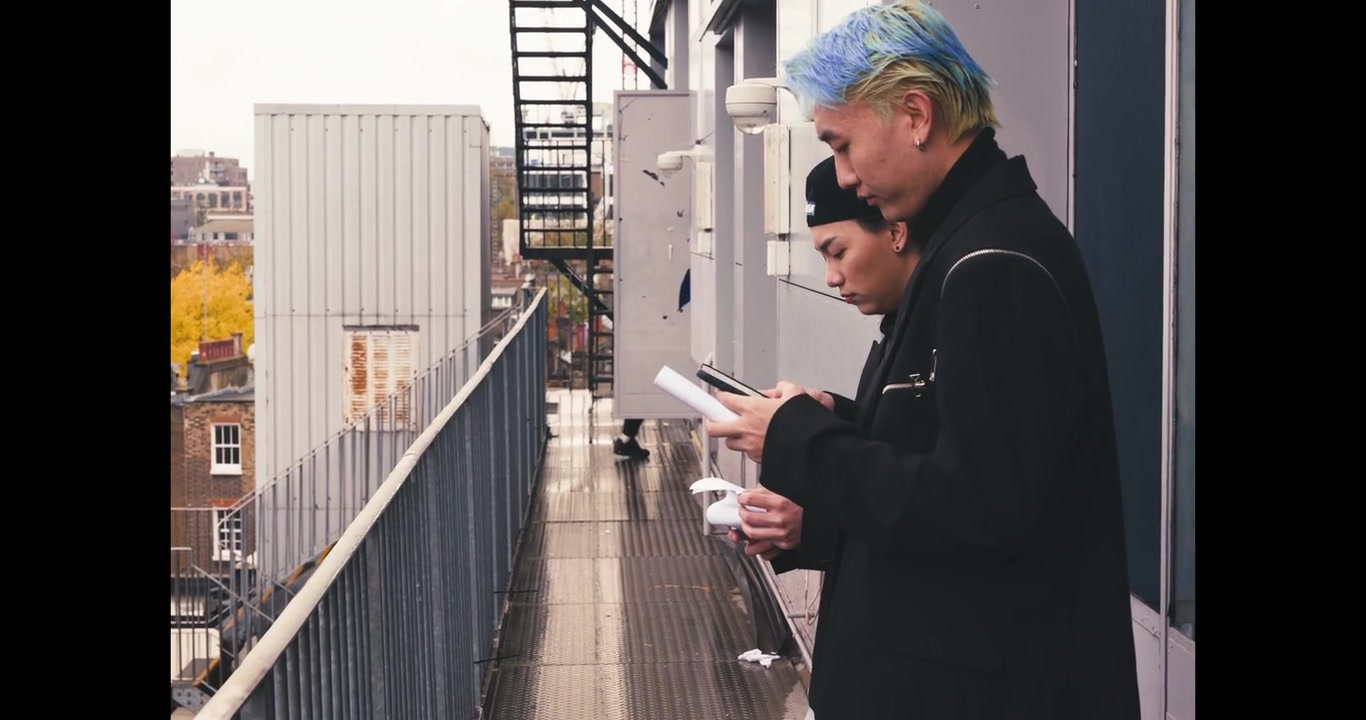
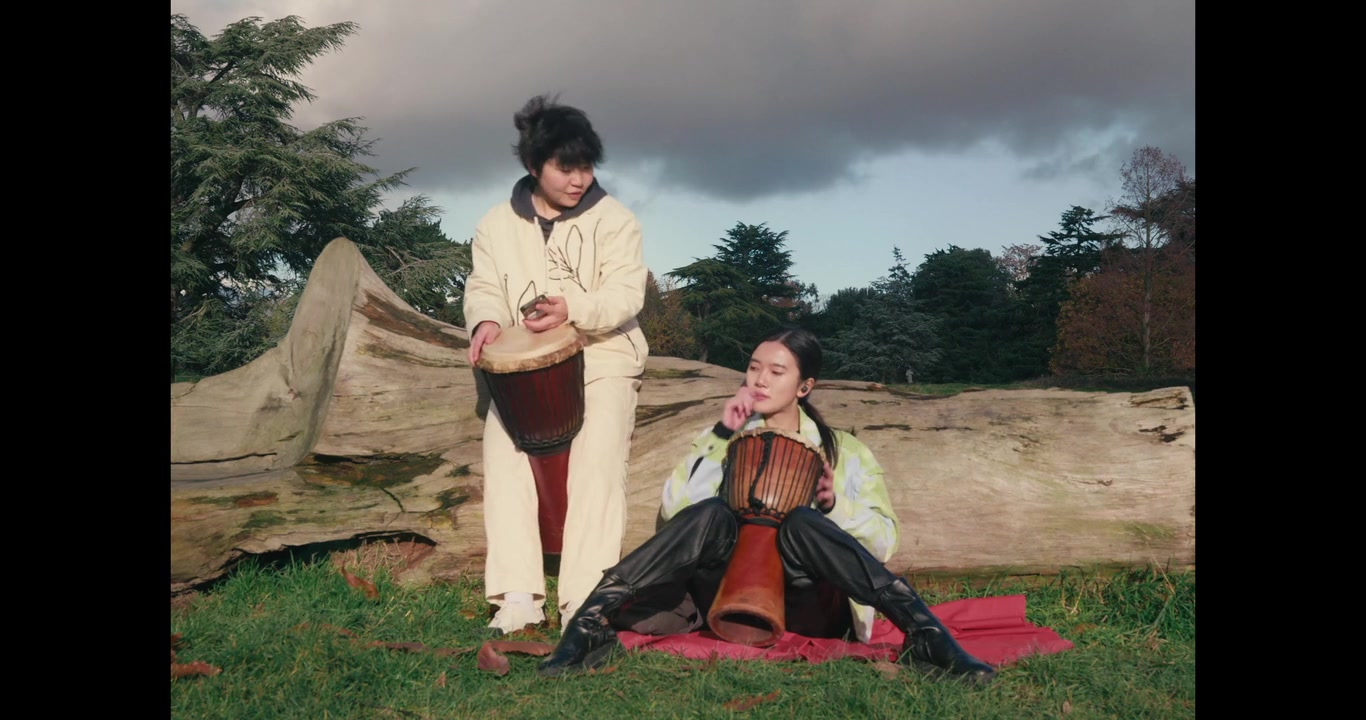
Restore automatic previews, retry transient failures and fit fashion content into first row

diff --git a/script.js b/script.js
@@ -78,7 +78,8 @@ function initPortfolio() {
   function projectCard(project, index) {
     const isPhoto = project.kind === 'photo';
     const article = element('article', 'project');
-    article.classList.toggle('portrait-project', !isPhoto && Number(project.aspectRatio) > 0 && Number(project.aspectRatio) < 1);
+    article.classList.toggle('portrait-project', !isPhoto && Number(project.aspectRatio) > 0 && (Number(project.aspectRatio) < 1 || project.fashionPriority));
+    article.classList.toggle('fashion-project', Boolean(project.fashionPriority));
     const button = element('a', 'project-button');
     button.href = project.url;
     button.setAttribute('aria-label', `View ${project.title}${project.sample ? (isPhoto ? ' (sample photograph)' : ' (sample film)') : ''}`);
@@ -117,16 +118,21 @@ function initPortfolio() {
     caption.append(title);
     button.append(visual, caption);
     article.append(button);
-    if (!isPhoto && project.vimeo && !project.staticCover && site.platformPreviews) previews.add(visual, project);
+    if (!isPhoto && project.vimeo && site.platformPreviews) previews.add(visual, project);
     return article;
   }
 
   const groups = categories.map(category => projects.filter(project => project.listed !== false && (project.collection || 'films') === category.id)
-    .sort((a, b) => Number(a.pinLast === true) - Number(b.pinLast === true) || (a.pinLast === true && b.pinLast === true ? Number(a.pinLastOrder || 0) - Number(b.pinLastOrder || 0) : Number(b.fashionPriority === true) - Number(a.fashionPriority === true) || Number(Number(a.aspectRatio) < 1) - Number(Number(b.aspectRatio) < 1))));
+    .sort((a, b) => Number(a.pinLast === true) - Number(b.pinLast === true) || (a.pinLast === true && b.pinLast === true ? Number(a.pinLastOrder || 0) - Number(b.pinLastOrder || 0) : Number(b.fashionPriority === true) - Number(a.fashionPriority === true) || Number(a.contentOrder || 99) - Number(b.contentOrder || 99) || Number(Number(a.aspectRatio) < 1) - Number(Number(b.aspectRatio) < 1))));
   panels.forEach((panel, index) => {
     const items = groups[index];
     if (items.length) {
       const grid = element('div', categories[index].id === 'photography' ? 'portfolio-grid' : 'portfolio-grid mixed-format-grid');
+      const fashion = items.filter(project => project.fashionPriority);
+      if (fashion.length) {
+        grid.style.setProperty('--fashion-ratio-sum', fashion.reduce((sum, project) => sum + Number(project.aspectRatio), 0));
+        grid.style.setProperty('--fashion-gaps', `${(fashion.length - 1) * 24 + 2}px`);
+      }
       items.forEach((project, projectIndex) => grid.append(projectCard(project, projectIndex)));
       panel.append(grid);
       if (items.some(project => project.sample)) {
@@ -342,12 +348,20 @@ function createPreviews() {
     entry.visual.dataset.previewState = 'unavailable';
     entry.player?.destroy().catch(() => {});
     entry.player = null;
+    clearTimeout(entry.retryTimer);
+    if (entry.retries < 2) entry.retryTimer = setTimeout(() => {
+      entry.retries += 1;
+      entry.failed = false;
+      updateVimeo(entry);
+    }, 1800 * (entry.retries + 1));
   }
 
   async function updateVimeo(entry) {
     const active = shouldPlay(entry);
     if (entry.ready) {
       const player = entry.player;
+      if (entry.updating) return;
+      entry.updating = true;
       try {
         if (active) {
           await player.play();
@@ -358,6 +372,10 @@ function createPreviews() {
           await player.pause();
         }
       } catch { if (shouldPlay(entry)) failVimeoPreview(entry); }
+      finally {
+        entry.updating = false;
+        if (entry.ready && active !== shouldPlay(entry)) updateVimeo(entry);
+      }
       return;
     }
     if (!active || entry.loading || entry.failed) return;
@@ -374,24 +392,25 @@ function createPreviews() {
       iframe.allow = 'autoplay; encrypted-media';
       iframe.referrerPolicy = 'strict-origin-when-cross-origin';
       // 免费账户可能忽略 controls / vimeo_logo；保留原始画面，不遮挡标识。
-      const params = new URLSearchParams({ autoplay: '0', muted: '1', loop: '1', autopause: '0', controls: '0', keyboard: '0', playsinline: '1', title: '0', byline: '0', portrait: '0', badge: '0', vimeo_logo: '0', dnt: '1' });
+      const params = new URLSearchParams({ autoplay: '1', muted: '1', loop: '1', autopause: '0', controls: '0', keyboard: '0', playsinline: '1', title: '0', byline: '0', portrait: '0', badge: '0', vimeo_logo: '0', dnt: '1' });
       if (entry.project.vimeoHash) params.set('h', entry.project.vimeoHash);
       iframe.src = `https://player.vimeo.com/video/${entry.project.vimeo}?${params}`;
       entry.visual.append(iframe);
       const player = new Vimeo.Player(iframe);
       entry.player = player;
       player.on('playing', () => {
+        if (entry.player !== player) return;
         if (!shouldPlay(entry)) { updateVimeo(entry); return; }
         entry.visual.dataset.previewState = 'playing';
         entry.visual.classList.add('preview-ready');
       });
-      player.on('pause', () => hideVimeoPreview(entry));
-      player.on('error', () => failVimeoPreview(entry));
+      player.on('pause', () => { if (entry.player === player) hideVimeoPreview(entry); });
+      player.on('error', () => { if (entry.player === player) failVimeoPreview(entry); });
       await player.ready();
       await player.setMuted(true);
-      entry.visual.dataset.previewMuted = String(await player.getMuted());
+      entry.visual.dataset.previewMuted = 'true';
       const start = Math.max(0, Number(entry.project.previewStart) || 0);
-      if (start) await player.setCurrentTime(start);
+      if (start) await player.setCurrentTime(start).catch(() => {});
       let seeking = false;
       player.on('timeupdate', ({ seconds }) => {
         if (seconds < start + (Number(entry.project.previewDuration) || 24) || seeking || !shouldPlay(entry)) return;
@@ -434,7 +453,7 @@ function createPreviews() {
   toggle.addEventListener('click', () => {
     enabled = !enabled;
     // 手动重新开启时允许因浏览器自动播放限制失败的预览重试。
-    if (enabled) entries.forEach(entry => { if (entry.failed) { entry.failed = false; entry.loading = false; entry.ready = false; } });
+    if (enabled) entries.forEach(entry => { if (entry.failed) { clearTimeout(entry.retryTimer); entry.retries = 0; entry.failed = false; entry.loading = false; entry.ready = false; } });
     updateToggle();
     refresh();
   });
@@ -445,10 +464,11 @@ function createPreviews() {
   return {
     refresh,
     add(visual, project) {
-      const entry = { visual, project, visible: false, loading: false, ready: false, failed: false, player: null };
+      const entry = { visual, project, visible: false, loading: false, ready: false, failed: false, retries: 0, retryTimer: null, updating: false, player: null };
       entries.set(visual, entry);
       visual.dataset.previewState = 'idle';
-      observer?.observe(visual);
+      if (observer) observer.observe(visual);
+      else { entry.visible = true; updateVimeo(entry); }
     },
   };
 }

diff --git a/projects.js b/projects.js
@@ -256,6 +256,60 @@ const projects = [
     ]
   },
   {
+    "collection": "social",
+    "kind": "video",
+    "title": "Starry Mart — London Dock Opening",
+    "vimeo": "1232915723",
+    "vimeoHash": "e516679215",
+    "aspectRatio": 1.7777777777777777,
+    "previewStart": 8,
+    "cover": "https://i.vimeocdn.com/video/2208446214-75d6c8c3fb513e9c3f9c4aabef6c6001547ee331c2f3270e46e7d959eacdbca9-d_1280?region=us",
+    "credit": "",
+    "sample": false,
+    "slug": "starry-mart-london-dock-opening",
+    "description": "An opening-event film for Starry Mart at London Dock.",
+    "images": [],
+    "url": "/social-starry-mart-london-dock-opening.html",
+    "location": "London, UK",
+    "contentOrder": 1
+  },
+  {
+    "collection": "social",
+    "kind": "video",
+    "title": "Knight Frank — The OWO Residences",
+    "vimeo": "1232901833",
+    "vimeoHash": "51f3668da2",
+    "aspectRatio": 1.7777777777777777,
+    "previewStart": 8,
+    "cover": "https://i.vimeocdn.com/video/2208433608-7261d8f5a0a8e6e6fc300a5fc8808304165216c387abbb5b8226910f58cb7135-d_1280?region=us",
+    "credit": "",
+    "sample": false,
+    "slug": "knight-frank-owo-residences",
+    "description": "A property tour of The OWO Residences for Knight Frank, filmed in London.",
+    "images": [],
+    "url": "/social-knight-frank-owo-residences.html",
+    "location": "London, UK",
+    "contentOrder": 2
+  },
+  {
+    "collection": "social",
+    "kind": "video",
+    "title": "DALTON — German Origins",
+    "vimeo": "1232915040",
+    "vimeoHash": "e7e1ee47b9",
+    "aspectRatio": 1.7777777777777777,
+    "previewStart": 8,
+    "cover": "https://i.vimeocdn.com/video/2208445557-defbea8f4224694485666e7053301d1b05951d7b64759691d9b0652ee69e3d42-d_1280?region=us",
+    "credit": "",
+    "sample": false,
+    "slug": "dalton-german-origins",
+    "description": "A journey to the German origins of DALTON (德海顿).",
+    "images": [],
+    "url": "/social-dalton-german-origins.html",
+    "location": "Germany",
+    "contentOrder": 3
+  },
+  {
     "collection": "commercials",
     "kind": "video",
     "title": "NAVIMOW Circle — Concept Video",
@@ -445,8 +499,7 @@ const projects = [
           }
         ]
       }
-    ],
-    "staticCover": true
+    ]
   },
   {
     "collection": "commercials",
@@ -538,8 +591,7 @@ const projects = [
         "role": "UK Filming Support",
         "name": "Cine Harbor"
       }
-    ],
-    "staticCover": true
+    ]
   },
   {
     "collection": "films",
@@ -556,7 +608,6 @@ const projects = [
     "description": "A VOGUE CHINA fashion film starring Zhang Jingyi.",
     "images": [],
     "url": "/films-zhang-jingyi.html",
-    "staticCover": true,
     "coverPosition": "50% 15%"
   },
   {
@@ -574,7 +625,6 @@ const projects = [
     "description": "A VOGUE CHINA fashion film starring Xin Zhilei.",
     "images": [],
     "url": "/films-xin-zhilei.html",
-    "staticCover": true,
     "coverPosition": "50% 15%"
   },
   {
@@ -592,8 +642,7 @@ const projects = [
     "description": "Bvlgari × Modern Weekly: CEO Dialogue.\n\nThe Polyphony of Life — filmed in Venice.",
     "images": [],
     "url": "/commercials-bvlgari-nowness-venice-biennale.html",
-    "location": "Venice, Italy",
-    "staticCover": true
+    "location": "Venice, Italy"
   },
   {
     "collection": "branded-content",
@@ -611,8 +660,7 @@ const projects = [
     "images": [],
     "url": "/films-john-pawson-banlan-slips.html",
     "location": "Cotswolds, UK",
-    "year": "2026",
-    "staticCover": true
+    "year": "2026"
   },
   {
     "collection": "branded-content",
@@ -914,57 +962,6 @@ const projects = [
     "displayCategory": "Commercials · Live Broadcast"
   },
   {
-    "collection": "social",
-    "kind": "video",
-    "title": "Knight Frank — The OWO Residences",
-    "vimeo": "1232901833",
-    "vimeoHash": "51f3668da2",
-    "aspectRatio": 1.7777777777777777,
-    "previewStart": 8,
-    "cover": "https://i.vimeocdn.com/video/2208433608-7261d8f5a0a8e6e6fc300a5fc8808304165216c387abbb5b8226910f58cb7135-d_1280?region=us",
-    "credit": "",
-    "sample": false,
-    "slug": "knight-frank-owo-residences",
-    "description": "A property tour of The OWO Residences for Knight Frank, filmed in London.",
-    "images": [],
-    "url": "/social-knight-frank-owo-residences.html",
-    "location": "London, UK"
-  },
-  {
-    "collection": "social",
-    "kind": "video",
-    "title": "Starry Mart — London Dock Opening",
-    "vimeo": "1232915723",
-    "vimeoHash": "e516679215",
-    "aspectRatio": 1.7777777777777777,
-    "previewStart": 8,
-    "cover": "https://i.vimeocdn.com/video/2208446214-75d6c8c3fb513e9c3f9c4aabef6c6001547ee331c2f3270e46e7d959eacdbca9-d_1280?region=us",
-    "credit": "",
-    "sample": false,
-    "slug": "starry-mart-london-dock-opening",
-    "description": "An opening-event film for Starry Mart at London Dock.",
-    "images": [],
-    "url": "/social-starry-mart-london-dock-opening.html",
-    "location": "London, UK"
-  },
-  {
-    "collection": "social",
-    "kind": "video",
-    "title": "DALTON — German Origins",
-    "vimeo": "1232915040",
-    "vimeoHash": "e7e1ee47b9",
-    "aspectRatio": 1.7777777777777777,
-    "previewStart": 8,
-    "cover": "https://i.vimeocdn.com/video/2208445557-defbea8f4224694485666e7053301d1b05951d7b64759691d9b0652ee69e3d42-d_1280?region=us",
-    "credit": "",
-    "sample": false,
-    "slug": "dalton-german-origins",
-    "description": "A journey to the German origins of DALTON (德海顿).",
-    "images": [],
-    "url": "/social-dalton-german-origins.html",
-    "location": "Germany"
-  },
-  {
     "collection": "branded-content",
     "kind": "video",
     "title": "Zhang Youhao × Another Man — London Fashion Week 2025",
@@ -1006,8 +1003,7 @@ const projects = [
           }
         ]
       }
-    ],
-    "staticCover": true
+    ]
   },
   {
     "collection": "branded-content",
@@ -1217,7 +1213,7 @@ const projects = [
     "vimeo": "1233562383",
     "vimeoHash": "fa1a712354",
     "aspectRatio": 1.8962962962962964,
-    "previewStart": 8,
+    "previewStart": 3240,
     "cover": "/assets/starberry-fields-forever-cover.jpg",
     "credit": "",
     "sample": false,
@@ -1225,7 +1221,6 @@ const projects = [
     "description": "",
     "images": [],
     "url": "/films-starberry-fields-forever.html",
-    "staticCover": true,
     "pinLast": true,
     "pinLastOrder": 2
   },
@@ -1266,8 +1261,7 @@ const projects = [
     "url": "/films-imaginary-friends.html",
     "pinLast": true,
     "displayCategory": "Fashion Film",
-    "pinLastOrder": 3,
-    "staticCover": true
+    "pinLastOrder": 3
   },
   {
     "collection": "films",

diff --git a/social-london-fashion-week-2025.html b/social-london-fashion-week-2025.html
@@ -7,5 +7,5 @@
 <section class="related-videos video-series" aria-label="Film series"><section class="video-series-group" aria-labelledby="video-group-0"><h2 class="video-series-heading" id="video-group-0">The Films</h2><div class="related-video-grid-grouped"><article class="related-video related-video-portrait"><div class="related-video-player" style="--video-ratio:0.7453416149068323"><iframe src="https://player.vimeo.com/video/1232912858?h=fdd8f3d7c0&amp;playsinline=1&amp;title=0&amp;byline=0&amp;portrait=0&amp;dnt=1" title="VOGUE — Tang Wei — Vimeo video player" loading="lazy" allow="autoplay; encrypted-media; picture-in-picture; fullscreen" allowfullscreen referrerpolicy="strict-origin-when-cross-origin"></iframe></div><h3 class="related-video-title">VOGUE — Tang Wei</h3></article>
 <article class="related-video related-video-portrait"><div class="related-video-player" style="--video-ratio:0.7453416149068323"><iframe src="https://player.vimeo.com/video/1232912789?h=55fc227f3b&amp;playsinline=1&amp;title=0&amp;byline=0&amp;portrait=0&amp;dnt=1" title="VOGUE — Zhang Jingyi — Vimeo video player" loading="lazy" allow="autoplay; encrypted-media; picture-in-picture; fullscreen" allowfullscreen referrerpolicy="strict-origin-when-cross-origin"></iframe></div><h3 class="related-video-title">VOGUE — Zhang Jingyi</h3></article>
 <article class="related-video related-video-portrait"><div class="related-video-player" style="--video-ratio:0.7453416149068323"><iframe src="https://player.vimeo.com/video/1232912788?h=900b9d809c&amp;playsinline=1&amp;title=0&amp;byline=0&amp;portrait=0&amp;dnt=1" title="VOGUE — Mika — Vimeo video player" loading="lazy" allow="autoplay; encrypted-media; picture-in-picture; fullscreen" allowfullscreen referrerpolicy="strict-origin-when-cross-origin"></iframe></div><h3 class="related-video-title">VOGUE — Mika</h3></article>
-<article class="related-video related-video-portrait"><div class="related-video-player" style="--video-ratio:0.7448275862068966"><iframe src="https://player.vimeo.com/video/1232912790?h=4df426acb1&amp;playsinline=1&amp;title=0&amp;byline=0&amp;portrait=0&amp;dnt=1" title="VOGUE — Fil Xiaobai — Vimeo video player" loading="lazy" allow="autoplay; encrypted-media; picture-in-picture; fullscreen" allowfullscreen referrerpolicy="strict-origin-when-cross-origin"></iframe></div><h3 class="related-video-title">VOGUE — Fil Xiaobai</h3></article></div></section></section><nav class="project-pagination" aria-label="Project navigation"><a href="/#social">Back to Content</a><a href="/social-knight-frank-owo-residences.html"><span>Next project</span><strong>Knight Frank — The OWO Residences</strong></a></nav></main>
+<article class="related-video related-video-portrait"><div class="related-video-player" style="--video-ratio:0.7448275862068966"><iframe src="https://player.vimeo.com/video/1232912790?h=4df426acb1&amp;playsinline=1&amp;title=0&amp;byline=0&amp;portrait=0&amp;dnt=1" title="VOGUE — Fil Xiaobai — Vimeo video player" loading="lazy" allow="autoplay; encrypted-media; picture-in-picture; fullscreen" allowfullscreen referrerpolicy="strict-origin-when-cross-origin"></iframe></div><h3 class="related-video-title">VOGUE — Fil Xiaobai</h3></article></div></section></section><nav class="project-pagination" aria-label="Project navigation"><a href="/#social">Back to Content</a><a href="/social-starry-mart-london-dock-opening.html"><span>Next project</span><strong>Starry Mart — London Dock Opening</strong></a></nav></main>
 <div class="page-return"><a href="#top">Back to top ↑</a></div><footer class="site-footer"><p>© 2026 Cine Harbor</p><p class="footer-location">LONDON <span aria-hidden="true">·</span> WORLDWIDE</p><nav class="footer-socials" aria-label="Contact Cine Harbor"><a href="mailto:info@cineharbor.space" aria-label="Email info@cineharbor.space" title="Email"><svg viewBox="0 0 24 24" aria-hidden="true"><rect x="3" y="5" width="18" height="14" rx="2"/><path d="m3.5 6 8.5 7 8.5-7"/></svg></a></nav></footer></div></body></html>

diff --git a/social-knight-frank-owo-residences.html b/social-knight-frank-owo-residences.html
@@ -4,5 +4,5 @@
 <header class="site-header work-header"><a class="wordmark work-wordmark" href="/index.html" aria-label="Cine Harbor, home"><span aria-hidden="true">CINE</span><span aria-hidden="true">HARBOR</span></a><nav class="work-header-right" aria-label="Main navigation"><a href="/#social" aria-current="page">Work</a><a href="/about.html">About</a><a href="/contact.html">Contact</a></nav></header>
 <main id="project"><div class="detail-breadcrumb"><a href="/#social">Content</a><span>Knight Frank — The OWO Residences</span></div><div class="detail-player" style="--video-ratio:1.7777777777777777"><iframe src="https://player.vimeo.com/video/1232901833?h=51f3668da2&amp;playsinline=1&amp;title=0&amp;byline=0&amp;portrait=0&amp;dnt=1" title="Knight Frank — The OWO Residences — Vimeo video player" allow="autoplay; encrypted-media; picture-in-picture; fullscreen" allowfullscreen referrerpolicy="strict-origin-when-cross-origin"></iframe></div>
 <section class="project-information" aria-labelledby="project-title"><div class="project-heading"><div class="project-title-row"><h1 id="project-title">Knight Frank — The OWO Residences</h1></div><p class="project-category">Content · London, UK</p></div><div class="project-description"><p>A property tour of The OWO Residences for Knight Frank, filmed in London.</p></div></section>
-<nav class="project-pagination" aria-label="Project navigation"><a href="/#social">Back to Content</a><a href="/social-starry-mart-london-dock-opening.html"><span>Next project</span><strong>Starry Mart — London Dock Opening</strong></a></nav></main>
+<nav class="project-pagination" aria-label="Project navigation"><a href="/#social">Back to Content</a><a href="/social-dalton-german-origins.html"><span>Next project</span><strong>DALTON — German Origins</strong></a></nav></main>
 <div class="page-return"><a href="#top">Back to top ↑</a></div><footer class="site-footer"><p>© 2026 Cine Harbor</p><p class="footer-location">LONDON <span aria-hidden="true">·</span> WORLDWIDE</p><nav class="footer-socials" aria-label="Contact Cine Harbor"><a href="mailto:info@cineharbor.space" aria-label="Email info@cineharbor.space" title="Email"><svg viewBox="0 0 24 24" aria-hidden="true"><rect x="3" y="5" width="18" height="14" rx="2"/><path d="m3.5 6 8.5 7 8.5-7"/></svg></a></nav></footer></div></body></html>

diff --git a/social-starry-mart-london-dock-opening.html b/social-starry-mart-london-dock-opening.html
@@ -4,5 +4,5 @@
 <header class="site-header work-header"><a class="wordmark work-wordmark" href="/index.html" aria-label="Cine Harbor, home"><span aria-hidden="true">CINE</span><span aria-hidden="true">HARBOR</span></a><nav class="work-header-right" aria-label="Main navigation"><a href="/#social" aria-current="page">Work</a><a href="/about.html">About</a><a href="/contact.html">Contact</a></nav></header>
 <main id="project"><div class="detail-breadcrumb"><a href="/#social">Content</a><span>Starry Mart — London Dock Opening</span></div><div class="detail-player" style="--video-ratio:1.7777777777777777"><iframe src="https://player.vimeo.com/video/1232915723?h=e516679215&amp;playsinline=1&amp;title=0&amp;byline=0&amp;portrait=0&amp;dnt=1" title="Starry Mart — London Dock Opening — Vimeo video player" allow="autoplay; encrypted-media; picture-in-picture; fullscreen" allowfullscreen referrerpolicy="strict-origin-when-cross-origin"></iframe></div>
 <section class="project-information" aria-labelledby="project-title"><div class="project-heading"><div class="project-title-row"><h1 id="project-title">Starry Mart — London Dock Opening</h1></div><p class="project-category">Content · London, UK</p></div><div class="project-description"><p>An opening-event film for Starry Mart at London Dock.</p></div></section>
-<nav class="project-pagination" aria-label="Project navigation"><a href="/#social">Back to Content</a><a href="/social-dalton-german-origins.html"><span>Next project</span><strong>DALTON — German Origins</strong></a></nav></main>
+<nav class="project-pagination" aria-label="Project navigation"><a href="/#social">Back to Content</a><a href="/social-knight-frank-owo-residences.html"><span>Next project</span><strong>Knight Frank — The OWO Residences</strong></a></nav></main>
 <div class="page-return"><a href="#top">Back to top ↑</a></div><footer class="site-footer"><p>© 2026 Cine Harbor</p><p class="footer-location">LONDON <span aria-hidden="true">·</span> WORLDWIDE</p><nav class="footer-socials" aria-label="Contact Cine Harbor"><a href="mailto:info@cineharbor.space" aria-label="Email info@cineharbor.space" title="Email"><svg viewBox="0 0 24 24" aria-hidden="true"><rect x="3" y="5" width="18" height="14" rx="2"/><path d="m3.5 6 8.5 7 8.5-7"/></svg></a></nav></footer></div></body></html>

diff --git a/work.html b/work.html
@@ -9,10 +9,10 @@
   <title>Work — Cine Harbor</title>
   <link rel="icon" href="assets/favicon.svg?v=845" type="image/svg+xml">
   <link rel="stylesheet" href="style.css?v=centered-titles-20261005">
-  <link rel="stylesheet" href="home-links.css?v=mixed-cards-20261007">
-  <script src="projects.js?mixed-cards-20261007" defer></script>
-  <script src="script.js?mixed-cards-20261007" defer></script>
-  <link rel="stylesheet" href="/work-header.css?v=mixed-cards-20261007">
+  <link rel="stylesheet" href="home-links.css?v=autoplay-fashion-20261007">
+  <script src="projects.js?autoplay-fashion-20261007" defer></script>
+  <script src="script.js?autoplay-fashion-20261007" defer></script>
+  <link rel="stylesheet" href="/work-header.css?v=autoplay-fashion-20261007">
 </head>
 <body id="top" class="beige-film-page">
   <a class="skip-link" href="#work">Skip to selected work</a>

diff --git a/home-links.css b/home-links.css
@@ -78,3 +78,9 @@
 /* Photography follows the original image rather than the video frame. */
 .beige-film-page .project-image.photo-source { aspect-ratio: auto; background: transparent; }
 .beige-film-page .project-image.photo-source img { position: relative; display: block; width: 100%; height: auto; object-fit: contain; }
+
+@media (min-width: 1001px) {
+  .beige-film-page .mixed-format-grid .fashion-project {
+    width: min(calc(var(--portrait-height) * var(--card-ratio)), calc((100% - var(--fashion-gaps)) * var(--card-ratio) / var(--fashion-ratio-sum)));
+  }
+}

diff --git a/AGENTS.md b/AGENTS.md
@@ -14,3 +14,6 @@
 - Content fashion, W/Vogue and celebrity interview projects go first regardless of orientation (fashionPriority). Otherwise show landscape/square projects before portrait projects within each category; closing pinned projects keep their specified order. Landscape Work cards stay 16:9. Portrait cards retain their native ratio at a compact height that fits within the viewport.
 
 - All visible website project titles, video titles and labels must be in English, including nested related videos.
+
+- Custom video posters must not disable automatic previews. All Vimeo Work cards should retain muted previews with bounded retry after temporary failures.
+- Desktop Content begins with the five W/Vogue fashion projects in one compact row; the square Libby card uses its native ratio. Starry Mart starts the next row ahead of Knight Frank OWO and DALTON.
